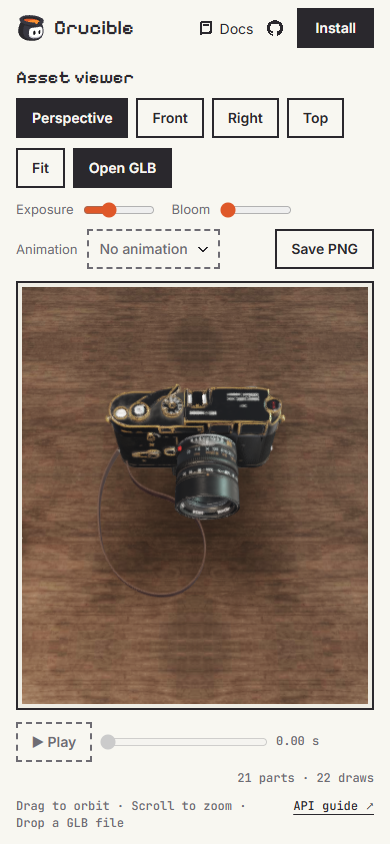
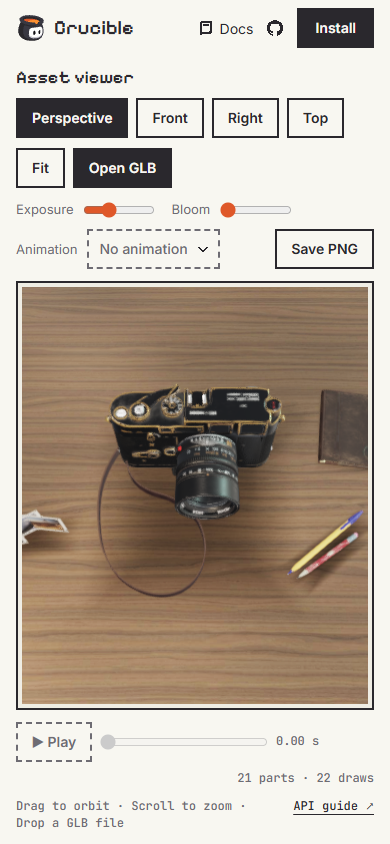
Add round 3 stills and wood crop for #2825

diff --git a/NOTES.md b/NOTES.md
@@ -22,3 +22,9 @@ Known faults: the wood still blurs along the grain (no anisotropic filtering); o
 - Props sit on soft contact-shadow quads; notebook and spectacles moved clear of the camera; postcards lighter and spread apart; pens and postcards moved to the sides (outside the phone frame).
 - Phone: a portrait focus box puts the camera at about 58 percent of the canvas width.
 - GLB: 3,929,324 bytes.
+
+## Round 3 (seamless tabletop)
+
+- The mirrored atlas crop showed a mirror axis and a dark blob, so the tabletop now uses the CC0 Poly Haven `black_walnut_veneer_02` diffuse (2K reduced to 1536 px, mapped at 1 m per tile, about 1,536 px per metre, no mirroring), darkened, with a faint low-frequency brightness drift; constant roughness.
+- Phone: the notebook corner and the pens reach into the frame; the camera stays at about 58 percent of the width. Desktop: postcards moved nearer the camera, tighter glasses shadow.
+- GLB: 4,033,412 bytes. `assets/wood-after.png` is the new wood crop (`wood-before.png` is unchanged).
